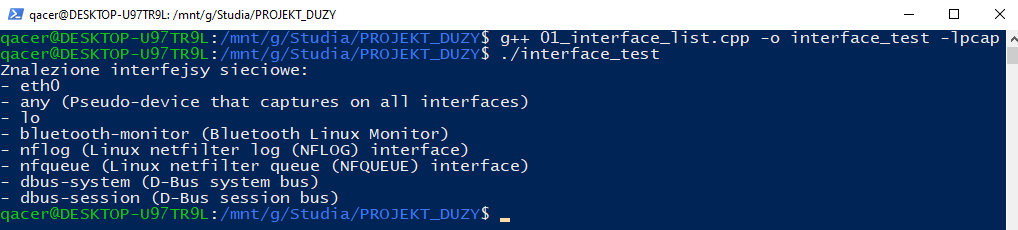
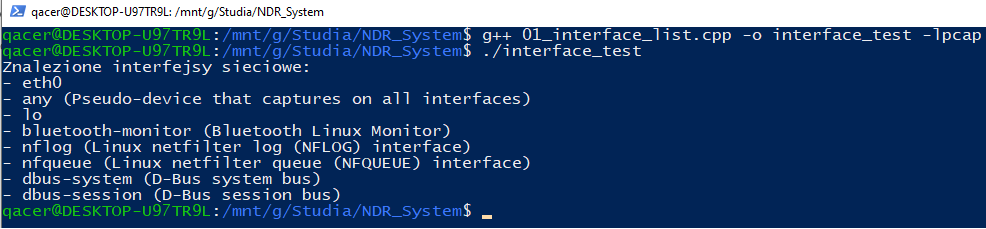
Organizacja: Zmiana nazwy folderu głównego na NDR_System i aktualizacja piaskownicy

Changed region(s): [[0.0, 0.0, 1.0, 1.0]]

diff --git a/04_learning_sandbox.cpp b/04_learning_sandbox.cpp
@@ -1,0 +1,44 @@
+#include <iostream>
+#include <pcap.h>
+#include <netinet/ip.h>
+#include <netinet/tcp.h>
+#include <netinet/udp.h>
+#include <arpa/inet.h>
+
+int packet_counter = 0;
+
+void packet_handler(u_char *user_data, const struct pcap_pkthdr *pkthdr, const u_char *packet) {
+    packet_counter++;
+    std::cout << "Packet #" << packet_counter << " - Length: " << pkthdr->len << " bytes" << std::endl;
+    struct iphdr *ip = (struct iphdr *)(packet + 14);
+    int ip_header_len = ip->ihl * 4;
+
+    char src_ip[INET_ADDRSTRLEN], dst_ip[INET_ADDRSTRLEN];
+    inet_ntop(AF_INET, &(ip->saddr), src_ip, INET_ADDRSTRLEN);
+    inet_ntop(AF_INET, &(ip->daddr), dst_ip, INET_ADDRSTRLEN);
+
+    if (ip->protocol == IPPROTO_TCP) {
+        struct tcphdr *tcp = (struct tcphdr *)(packet + 14 + ip_header_len);
+        std::cout << "[TCP] " << src_ip << ":" << ntohs(tcp->source) << " -> " << dst_ip << ":" << ntohs(tcp->dest) << std::endl;
+    } 
+    else if (ip->protocol == IPPROTO_UDP) {
+        struct udphdr *udp = (struct udphdr *)(packet + 14 + ip_header_len);
+        std::cout << "[UDP] " << src_ip << ":" << ntohs(udp->source) << " -> " << dst_ip << ":" << ntohs(udp->dest) << std::endl;
+    }
+    else if (ip->protocol == IPPROTO_ICMP) {
+        std::cout << "[ICMP] " << src_ip << " -> " << dst_ip << std::endl;
+    }
+}
+
+int main() {
+    char errbuf[PCAP_ERRBUF_SIZE];
+    pcap_t* handle = pcap_open_live("eth0", 65535, 1, 1000, errbuf);
+
+    if (!handle) return 1;
+
+    std::cout << "Nasłuchiwanie... (Ctrl+C aby przerwać)" << std::endl;
+    pcap_loop(handle, 0, packet_handler, NULL);
+    
+    pcap_close(handle);
+    return 0;
+}
